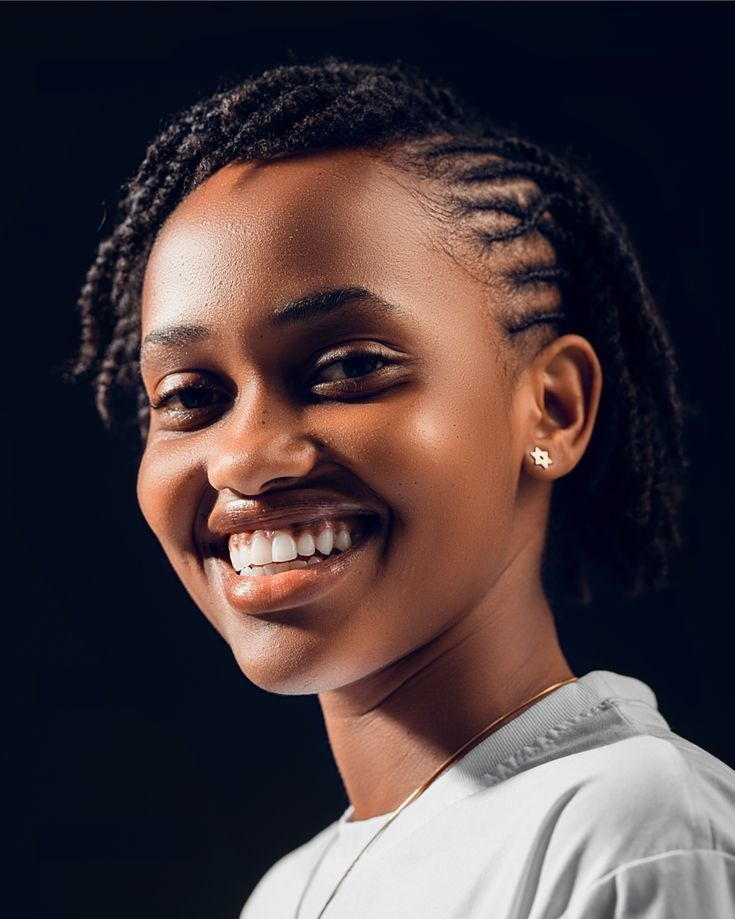
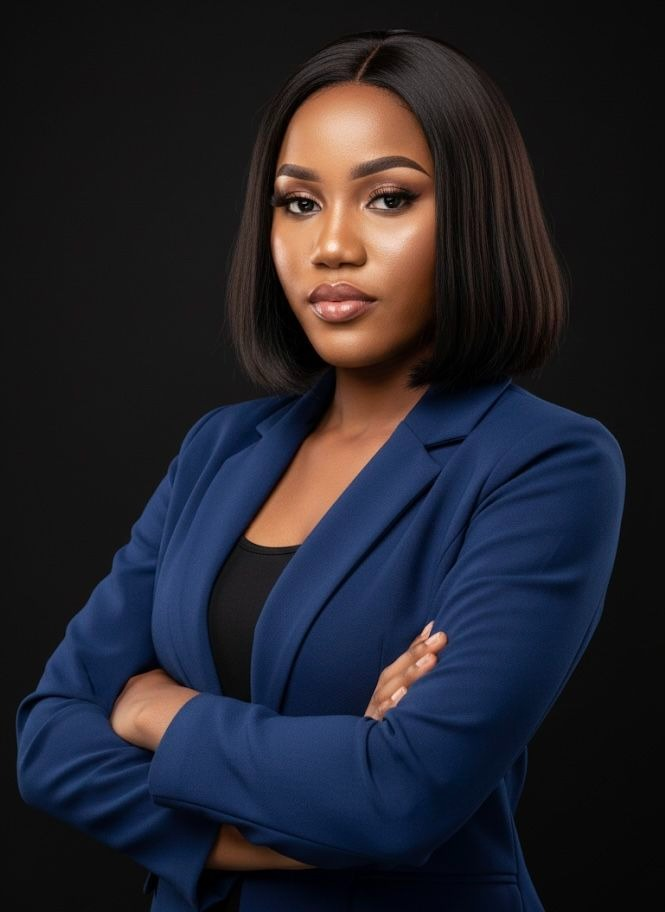
Update booking URL in brief.js and remove unused team image

diff --git a/js/brief.js b/js/brief.js
@@ -3,7 +3,7 @@
 (() => {
   const CONFIG = {
     briefEndpoint: 'netlify',   // 'netlify', a Formspree URL, or any URL that accepts a JSON POST
-    bookingUrl: 'https://cal.com/discovery-call-lwyh',   // your Cal.com or Calendly link
+    bookingUrl: 'https://cal.com/project-enquiry',   // your Cal.com or Calendly link
     whatsapp: 'https://wa.me/2348135306540',
     fallbackEmail: 'dataanddesigngeeks@gmail.com',
     cooldownMs: 30000,
